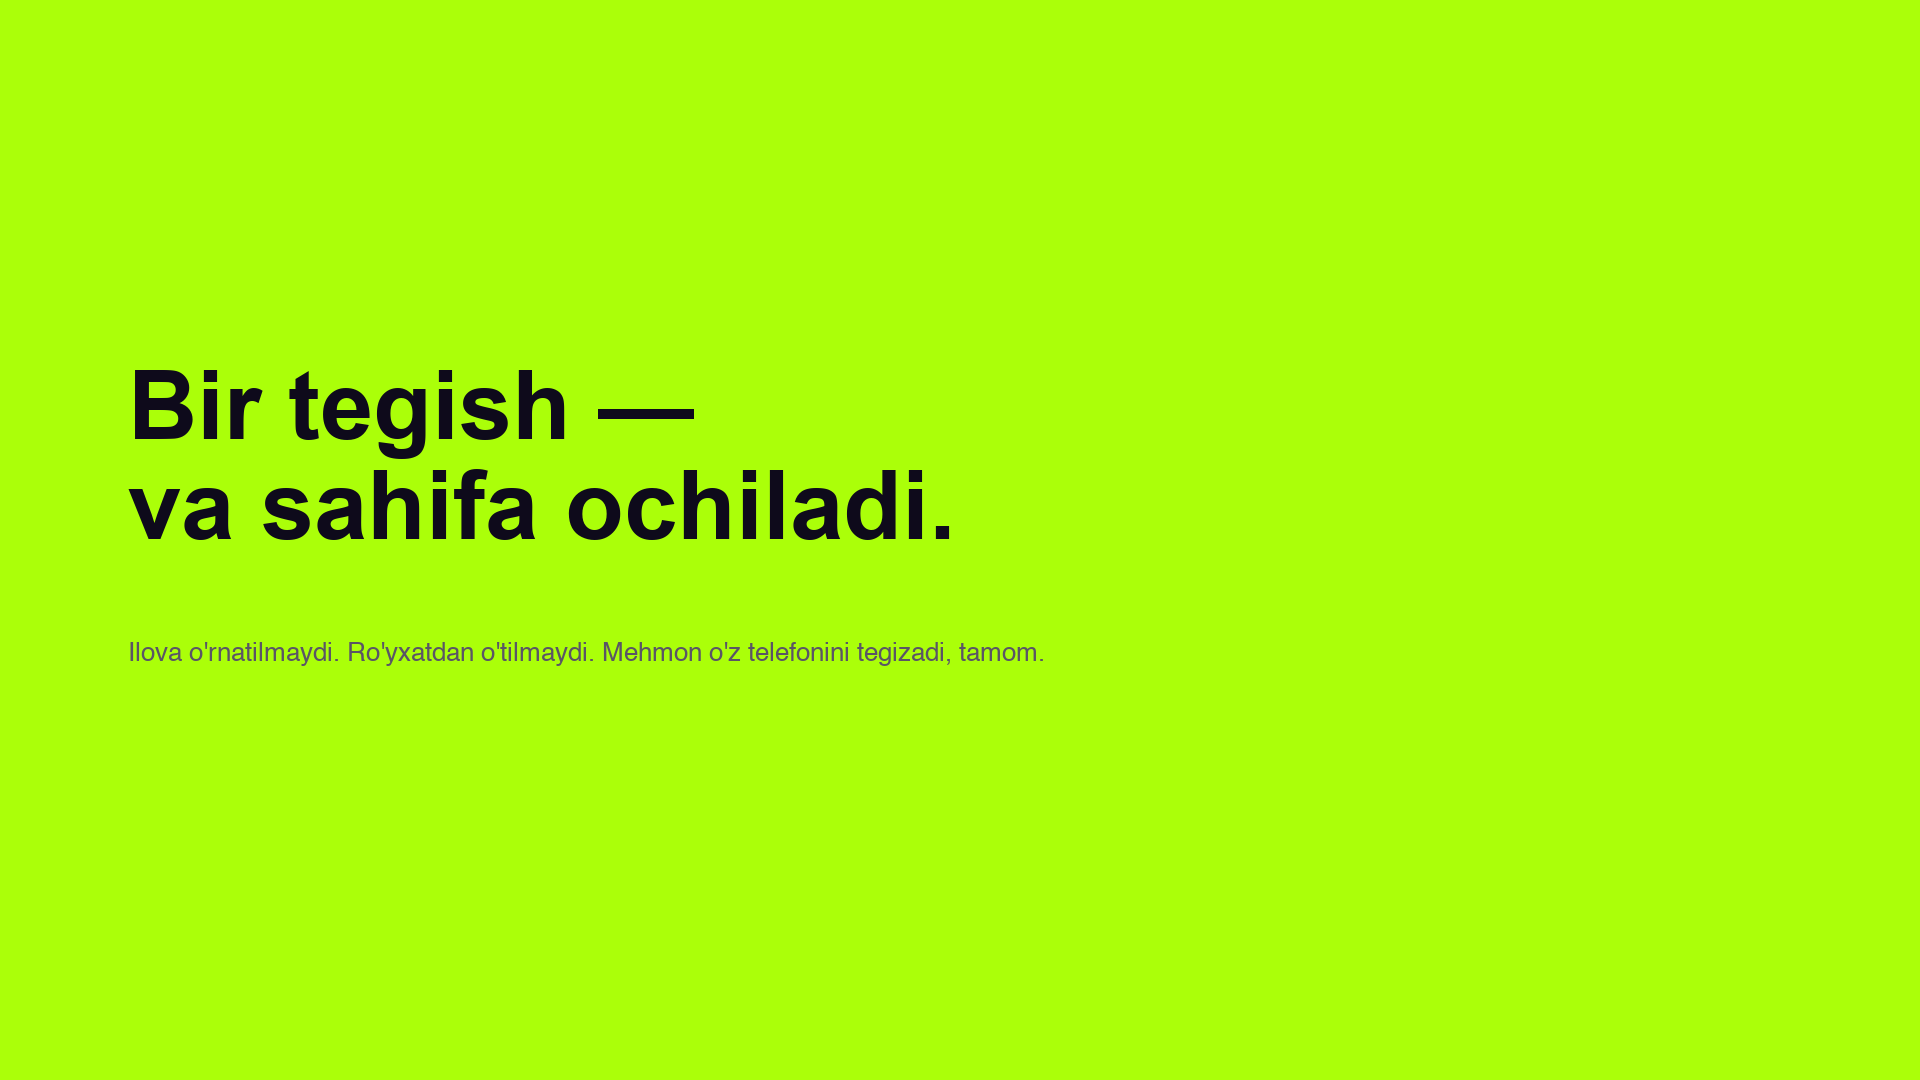
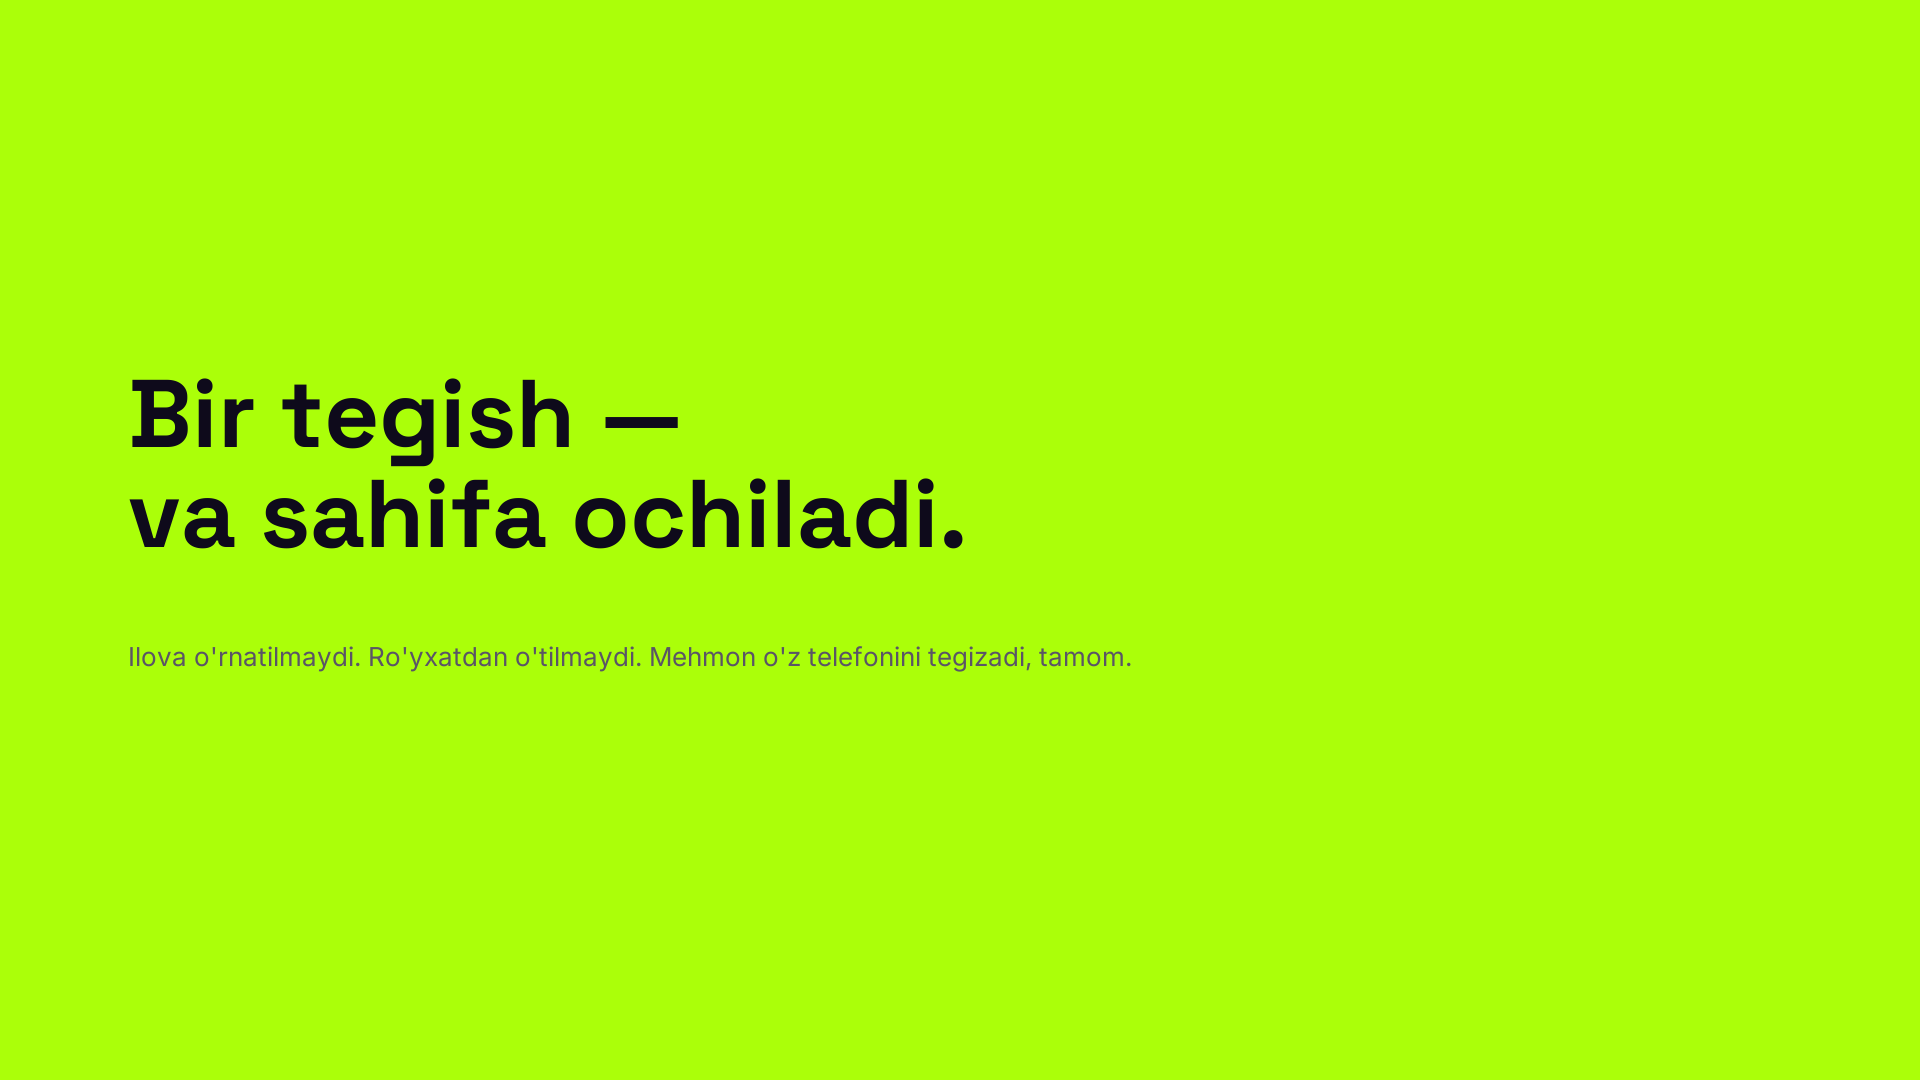
Preview the deck in its own faces
The checking renderer was measuring in Helvetica because Space Grotesk and Inter
were not on this machine, which is a reasonable stand-in for whether a line fits
and no use at all for whether the deck looks right. Both are installed now, cut
as static Regular and Bold instances from the variable originals — Space
Grotesk's default instance is Light, so a deck of bold headings installed from
the variable file would have come out thin.

The renderer takes the face from the run and falls back to Helvetica with a
note, so a missing font is reported rather than silently substituted.

Re-checked at the real metrics: nothing overflows in either language.

Changed region(s): [[0.0625, 0.3361, 0.5, 0.5194], [0.0625, 0.5806, 0.5625, 0.6417]]

diff --git a/scripts/deck_preview.py b/scripts/deck_preview.py
@@ -27,22 +27,34 @@ ROOT = Path(__file__).resolve().parent.parent
 SCALE = 2
 W, H = 960 * SCALE, 540 * SCALE
 
-# Space Grotesk and Inter are not installed here. Helvetica is close enough in
-# width to show whether a line fits; where it disagrees it runs slightly wide,
-# which errs toward catching overflow rather than hiding it.
+# The deck's own faces, so the preview measures the same widths PowerPoint will.
+# Helvetica stands in if they are not installed — close enough in width to show
+# whether a line fits, and it errs wide, which catches overflow rather than
+# hiding it.
+HOME = Path.home() / "Library" / "Fonts"
 FONTS = {
-    (False,): "/System/Library/Fonts/Helvetica.ttc",
-    (True,): "/System/Library/Fonts/Supplemental/Arial Bold.ttf",
+    ("Space Grotesk", False): HOME / "SpaceGrotesk-Regular.ttf",
+    ("Space Grotesk", True): HOME / "SpaceGrotesk-Bold.ttf",
+    ("Inter", False): HOME / "Inter-Regular.ttf",
+    ("Inter", True): HOME / "Inter-Bold.ttf",
+}
+FALLBACK = {
+    False: "/System/Library/Fonts/Helvetica.ttc",
+    True: "/System/Library/Fonts/Supplemental/Arial Bold.ttf",
 }
 _cache = {}
+missing = set()
 
 
-def font(size, bold):
-    key = (round(size * SCALE), bold)
+def font(size, bold, name="Inter"):
+    key = (round(size * SCALE), bold, name)
     if key not in _cache:
-        path = FONTS[(bold,)]
+        path = FONTS.get((name, bold))
+        if path is None or not path.exists():
+            missing.add(name)
+            path = FALLBACK[bold]
         try:
-            _cache[key] = ImageFont.truetype(path, key[0])
+            _cache[key] = ImageFont.truetype(str(path), key[0])
         except OSError:
             _cache[key] = ImageFont.load_default()
     return _cache[key]
@@ -186,7 +198,7 @@ def render(lang):
             for para in shape.text_frame.paragraphs:
                 for run in para.runs:
                     f = font(run.font.size.pt if run.font.size else 12,
-                             bool(run.font.bold))
+                             bool(run.font.bold), run.font.name or "Inter")
                     colour = (0, 0, 0)
                     try:
                         colour = tuple(run.font.color.rgb)
@@ -206,7 +218,8 @@ def render(lang):
 
         img.convert("RGB").save(out / f"{index:02d}.png", quality=92)
 
-    print(f"  {len(prs.slides._sldIdLst)} slides → deck/preview-{lang}/")
+    note = f"  (substituted: {', '.join(sorted(missing))})" if missing else ""
+    print(f"  {len(prs.slides._sldIdLst)} slides → deck/preview-{lang}/{note}")
 
 
 if __name__ == "__main__":
